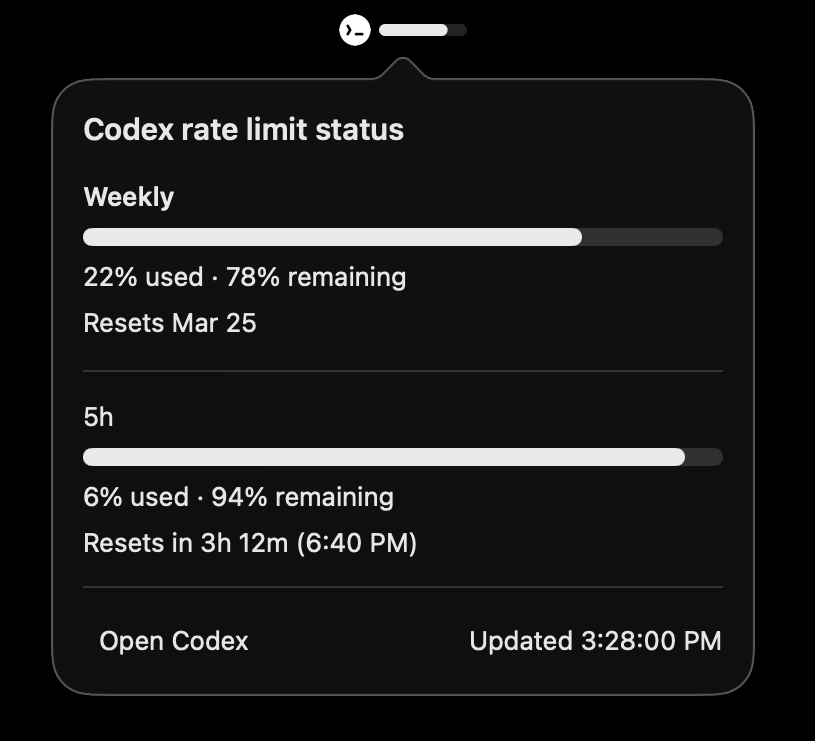
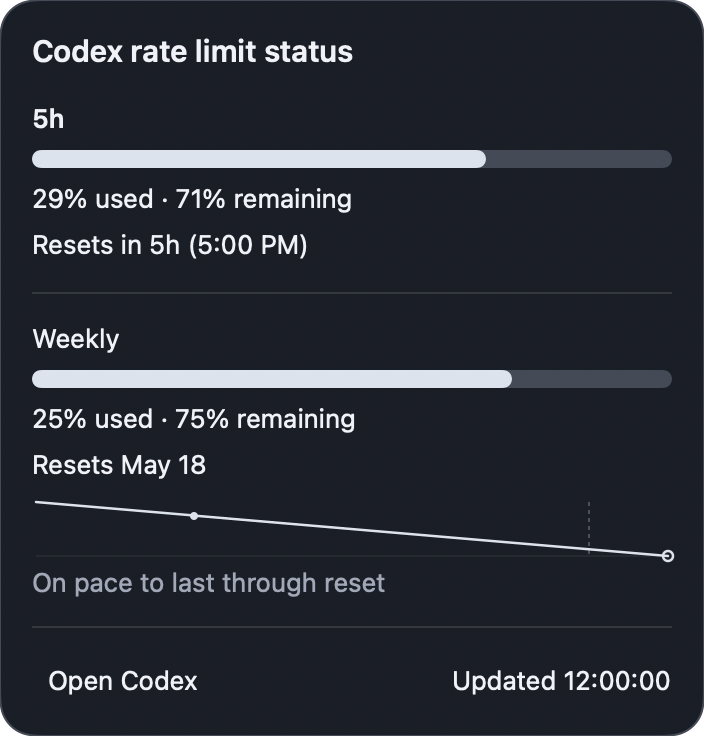
Update homepage hero with projection chart

diff --git a/site/hero-test.html b/site/hero-test.html
@@ -13,8 +13,8 @@
         <p class="eyebrow">Hero comparison</p>
         <h1>Current light and dark hero images</h1>
         <p class="lede">
-          Left is the current <strong>light mode</strong> hero image. Right is the
-          matching <strong>dark mode</strong> hero image.
+          Left is the current <strong>light mode</strong> projection chart hero image.
+          Right is the matching <strong>dark mode</strong> hero image.
         </p>
       </header>
 
@@ -27,9 +27,9 @@
           <div class="image-stage image-stage-light">
             <img
               src="/assets/codextoolbar-tahoe-light.png"
-              alt="Light mode Codex Toolbar hero image."
-              width="815"
-              height="741"
+              alt="Light mode Codex Toolbar hero image with the Weekly projection chart."
+              width="704"
+              height="736"
             >
           </div>
         </article>
@@ -42,9 +42,9 @@
           <div class="image-stage image-stage-light">
             <img
               src="/assets/codextoolbar-tahoe-dark.png"
-              alt="Dark mode Codex Toolbar hero image."
-              width="815"
-              height="741"
+              alt="Dark mode Codex Toolbar hero image with the Weekly projection chart."
+              width="704"
+              height="736"
             >
           </div>
         </article>

diff --git a/site/index.html b/site/index.html
@@ -102,9 +102,9 @@
               >
               <img
                 src="/assets/codextoolbar-tahoe-light.png"
-                alt="Codex Toolbar showing rate-limit status in the macOS menu bar and popover."
-                width="815"
-                height="741"
+                alt="Codex Toolbar showing the Weekly rate-limit projection chart in the macOS popover."
+                width="704"
+                height="736"
               >
             </picture>
           </figure>
